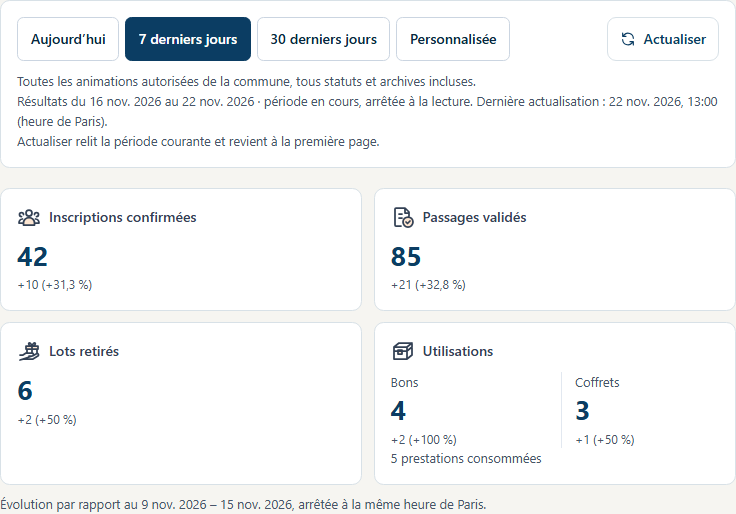
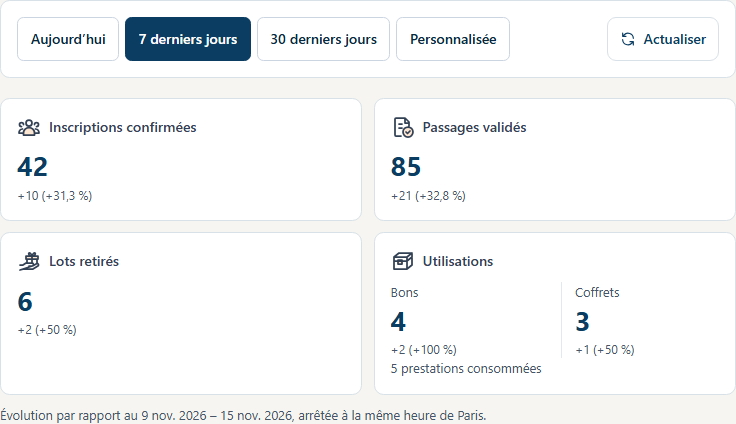
docs(animation): actualiser le guide du pilotage

diff --git a/docs/produit/formation/animation/guide-quotidien-animation.md b/docs/produit/formation/animation/guide-quotidien-animation.md
@@ -1,6 +1,6 @@
 # Localeo Animation - Votre guide au quotidien
 
-<!-- Source canonique du PDF ; générateur dans localeo-animation/scripts/generate-animation-guide.py. Édition du 22 novembre 2026. Les captures montrent l'application réelle avec des données d'exemple, jamais des comptes de production. -->
+<!-- Source canonique du PDF ; générateur dans localeo-animation/scripts/generate-animation-guide.py. Édition du 23 novembre 2026. Les captures montrent l'application réelle avec des données d'exemple, jamais des comptes de production. -->
 
 ## 1 · Piloter l'activité de ses animations
 
@@ -12,7 +12,7 @@
 2. Vérifiez le nom de l'organisation et la **commune active** dans l'en-tête. Le changement de commune renouvelle les informations affichées.
 3. Dans **Pilotage des animations**, **7 derniers jours** est sélectionné par défaut. Choisissez **Aujourd’hui**, **30 derniers jours** ou une période **Personnalisée** selon votre besoin.
 4. Pour une période personnalisée, indiquez le début et la fin : au maximum **366 jours**, sans date de fin future. Les jours sont calculés en heure de Paris.
-5. **Actualiser** relit les résultats de la période sélectionnée et revient à la première page. Vérifiez les bornes et la dernière actualisation avant de comparer les résultats.
+5. **Actualiser** relit les résultats de la période sélectionnée et revient à la première page.
 
 Les quatre cartes distinguent **inscriptions confirmées**, **passages validés**, **lots retirés** et **utilisations**. Cette dernière détaille bons, coffrets distincts et prestations consommées. La comparaison porte sur la période précédente ; la courbe suit inscriptions et passages.
 
@@ -35,7 +35,7 @@ Choisissez **Exporter tous les résultats (CSV)** pour reprendre la période aff
 
 Si l'export dépasse **10 000 animations**, il est refusé ; réduisez la période et recommencez. Aucune liste tronquée ne doit être prise pour un résultat complet.
 
-Après **30 minutes**, la lecture préparée pour l'export expire : utilisez **Actualiser**, vérifiez les nouvelles bornes puis demandez à nouveau le CSV. L'export ne change pas de période en silence.
+Après **30 minutes**, la lecture préparée pour l'export expire. Cliquez sur **Actualiser** pour relire la période sélectionnée, puis demandez à nouveau le CSV.
 
 > La comparaison des cartes et de la courbe porte sur les événements enregistrés pendant les périodes, pas sur ce taux de qualification. Un coffret utilisé plusieurs fois compte comme un coffret distinct ; le détail des prestations montre son utilisation.
 
@@ -306,4 +306,4 @@ Une nouvelle édition est un nouveau brouillon. Les dates, accords des commerça
 
 > Ne partagez ni mot de passe, ni PIN, ni QR secret. L'objectif de première réponse humaine du support est de deux jours ouvrés, avec une date cible indiquée dans la demande ; ce délai concerne la prise en charge, pas une promesse de résolution.
 
-Édition du **22 novembre 2026**. Interfaces illustrées sur ordinateur et mobile ; données de démonstration. Les intitulés et les actions peuvent varier selon le modèle, les droits et les modules.
+Édition du **23 novembre 2026**. Les illustrations montrent l’interface sur ordinateur et mobile avec des données de démonstration. Les intitulés et les actions peuvent varier selon le modèle, les droits et les modules.

diff --git a/docs/specifications/epic-73-animation-et-ou-coffrets/ux-productivite-organisateur.md b/docs/specifications/epic-73-animation-et-ou-coffrets/ux-productivite-organisateur.md
@@ -598,7 +598,7 @@ de cet écran. Les animations restent accessibles dans leur rubrique.
 | Critère | Comportement observable |
 | --- | --- |
 | E73-PIL-01 | Un seul pilotage, période **7 derniers jours** initiale ; **Aujourd'hui**, **30 derniers jours** et **Période personnalisée** disponibles. Les contrôles restent montés pendant les lectures locales ; le rapport conserve période, page, retour et focus depuis une animation. |
-| E73-PIL-02 | Les jours sont civils en Europe/Paris. Une période personnalisée inclut ses dates de début/fin, au plus 366 jours, sans date de fin future. `[début,fin[` utilise les minuits Paris, avec une fin limitée à l'instant de lecture pour le jour courant. Bornes et dernière actualisation sont affichées. |
+| E73-PIL-02 | Les jours sont civils en Europe/Paris. Une période personnalisée inclut ses dates de début/fin, au plus 366 jours, sans date de fin future. `[début,fin[` utilise les minuits Paris, avec une fin limitée à l'instant de lecture pour le jour courant. Le bloc période affiche les choix, le bouton **Actualiser** et, pour une période personnalisée, les champs et l'aide à la saisie. **Actualiser** relit la période appliquée et revient à la première page. |
 | E73-PIL-03 | Quatre cartes : inscriptions confirmées, passages validés, lots retirés, utilisations. La quatrième distingue **bons**, **coffrets distincts** et **prestations** ; ces unités ne sont jamais additionnées dans un total artificiel. Les faits sont ceux de DJ-06, sur toutes les animations autorisées de la commune, archives comprises. La période ne sélectionne pas les animations par leurs dates de jeu. |
 | E73-PIL-04 | Comparaison avec les jours calendaires précédents de même nombre ; si le dernier jour est partiel, même heure locale au dernier jour de référence. Bornes explicites et passage été/hiver conservés. Delta absolu et pourcentage disponibles ; pourcentage non calculé si référence nulle. Aucune comparaison économique ou qualification historique supposée. |
 | E73-PIL-05 | Une courbe lisible inscriptions/passages, journées sans événement incluses et série précédente alignée par position des jours. Légende, sens des couleurs et alternative de lecture accessibles ; pas de graphiques parallèles répétant les mêmes indicateurs. |

diff --git a/docs/produit/formation/animation/illustrations/guide-quotidien/README.md b/docs/produit/formation/animation/illustrations/guide-quotidien/README.md
@@ -1,5 +1,21 @@
 # Captures du guide utilisateur Animation
 
+## 23 novembre 2026 - sélecteur de période du tableau de bord
+
+`pilotage-indicateurs-1024.png` et `pilotage-indicateurs-390.png` montrent le
+sélecteur de période et les indicateurs avec des données fictives. Depuis
+Animation, sur la base `e3957eb` complétée par la retouche du tableau de bord :
+
+```powershell
+$env:ANIMATION_TEST_DIST = 'tmp/pilotage-text-20261123-build'
+$env:ANIMATION_GUIDE_CAPTURE_ROOT = 'tmp/pilotage-text-guide-captures'
+New-Item -ItemType Directory -Force $env:ANIMATION_GUIDE_CAPTURE_ROOT | Out-Null
+node scripts/build-pwa-tests.mjs
+node tests/browser/dashboard-pilotage-guide.mjs
+```
+
+Copier les deux captures `pilotage-indicateurs` depuis le dossier de sortie.
+
 ## Palette bleu nuit et orange du 22 novembre 2026
 
 Les illustrations de cette édition reprennent le fond papier, les actions bleues,
